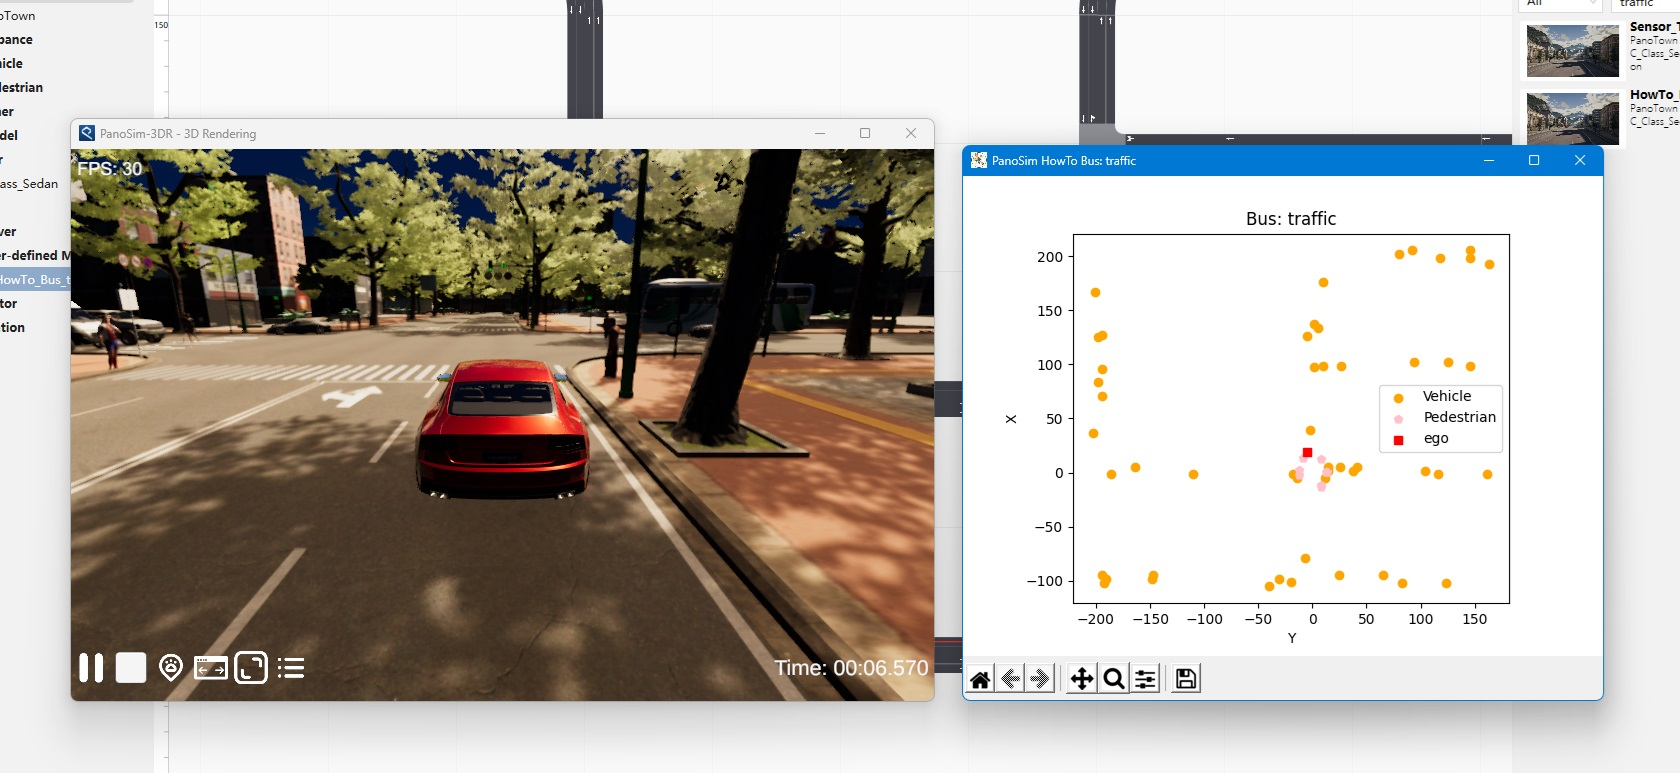
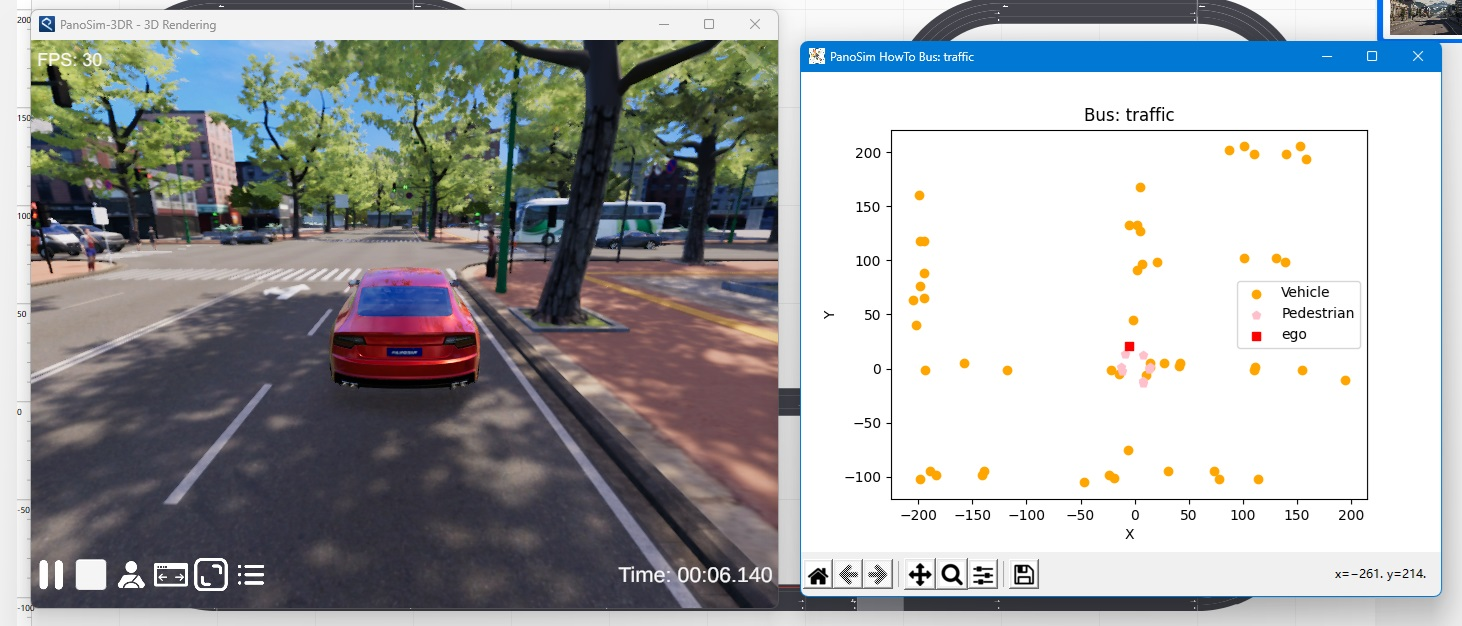
fix bug: plot label

diff --git a/Sensor/Perception/ObjectPerception/PanoSimDatabase/Plugin/Agent/HowTo_ObjectPerception.py b/Sensor/Perception/ObjectPerception/PanoSimDatabase/Plugin/Agent/HowTo_ObjectPerception.py
@@ -14,27 +14,25 @@ def ModelOutput(userData):
     timestamp, count = userData['sensor'].readHeader()
     if timestamp > userData['last_time']:
         userData['last_time'] = timestamp
-
         plt.clf()
         axes = plt.axes()
         axes.set_aspect('equal')
         plt.title('Sensor: Object Perception')
-        plt.ylabel('X')
-        plt.ylim((-10, 110))
-        plt.yticks(np.arange(0, 110, 10))
-        plt.xlabel('Y')
+        plt.ylabel('Y')
+        plt.ylim((-60, 60))
+        plt.yticks(np.arange(-50, 60, 10))
+        plt.xlabel('X')
         plt.xlim((-60, 60))
         xTicks = np.arange(-50, 60, 10)
         plt.xticks(xTicks)
         axes.set_xticklabels(['{}'.format(i) for i in xTicks[::-1]])
-
         Type2Style = [('Vehicle', 'orange', 'o'), ('Pedestrian', 'pink', 'p'),
                       ('Other', 'purple', 'D'), ('Sign', 'blue', 'h'), ('Obstacle', 'cyan', 'H')]
         plt.scatter(x=0, y=0, color='red', marker='s', label='ego')
         for i in range(count):
             _, type, x, y, _, _, _, _, _ = userData['sensor'].readBody(i)
             label, color, marker = Type2Style[type]
-            plt.scatter(x=-y, y=x, c=color, marker=marker, label=label)
+            plt.scatter(x=x, y=y, c=color, marker=marker, label=label)
 
         handles, labels = plt.gca().get_legend_handles_labels()
         label2handle = dict(zip(labels, handles))

diff --git a/Bus/traffic/PanoSimDatabase/Plugin/Agent/HowTo_Bus_traffic.py b/Bus/traffic/PanoSimDatabase/Plugin/Agent/HowTo_Bus_traffic.py
@@ -17,8 +17,8 @@ def ModelOutput(userData):
         plt.clf()
         plt.axes().set_aspect('equal')
         plt.title('Bus: traffic')
-        plt.ylabel('X')
-        plt.xlabel('Y')
+        plt.xlabel('X')
+        plt.ylabel('Y')
         Type2Style = [('Vehicle', 'orange', 'o'), ('Pedestrian', 'pink', 'p'), ('Other', 'purple', 'D')]
         trafffic_bus = userData['traffic'].getReader(userData['time'])
         _, width = trafffic_bus.readHeader()

diff --git a/Bus/ego_traffic/PanoSimDatabase/Plugin/Agent/HowTo_Bus_ego_traffic.py b/Bus/ego_traffic/PanoSimDatabase/Plugin/Agent/HowTo_Bus_ego_traffic.py
@@ -17,8 +17,8 @@ def ModelOutput(userData):
         plt.clf()
         plt.axes().set_aspect('equal')
         plt.title('Bus: ego_traffic')
-        plt.ylabel('X')
-        plt.xlabel('Y')
+        plt.xlabel('X')
+        plt.ylabel('Y')
         shape = getLaneShape(lane)
         pts = np.array(shape)
         plt.plot(pts[:,0], pts[:,1], c='m' if internal == 1 else 'b', label='lane:{}'.format(lane))
